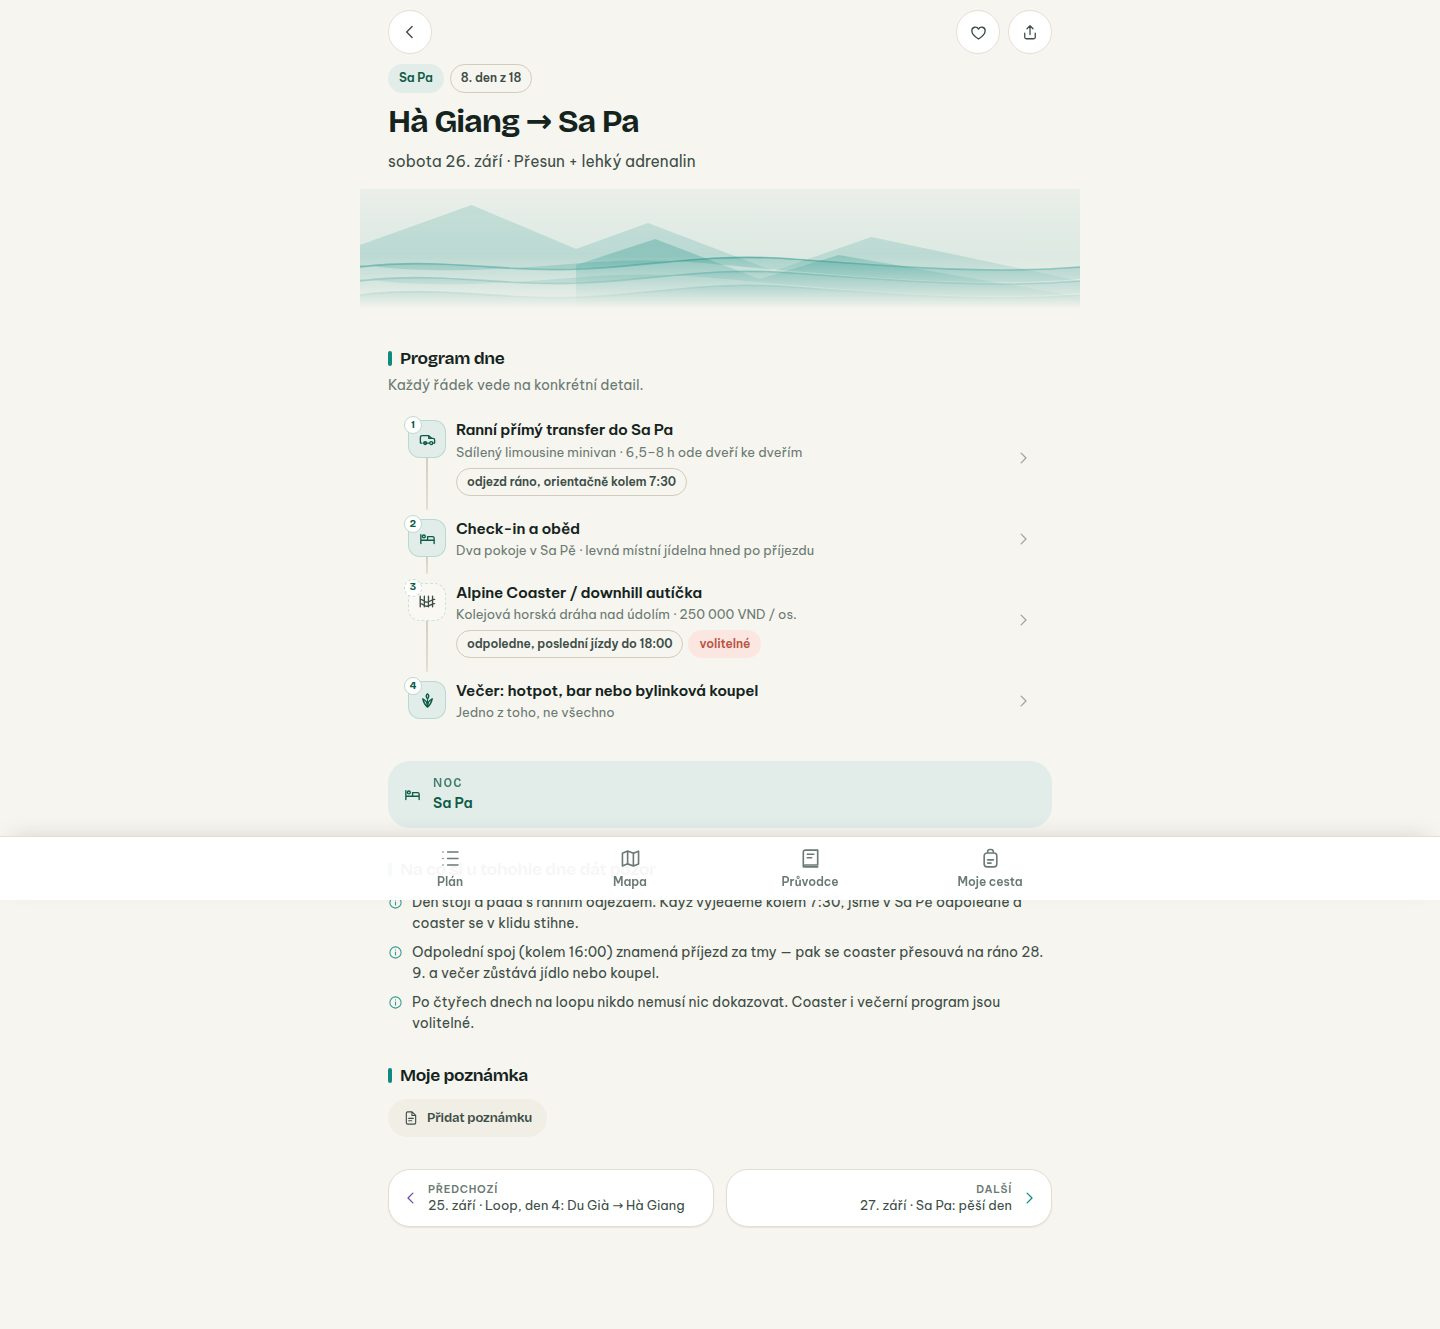
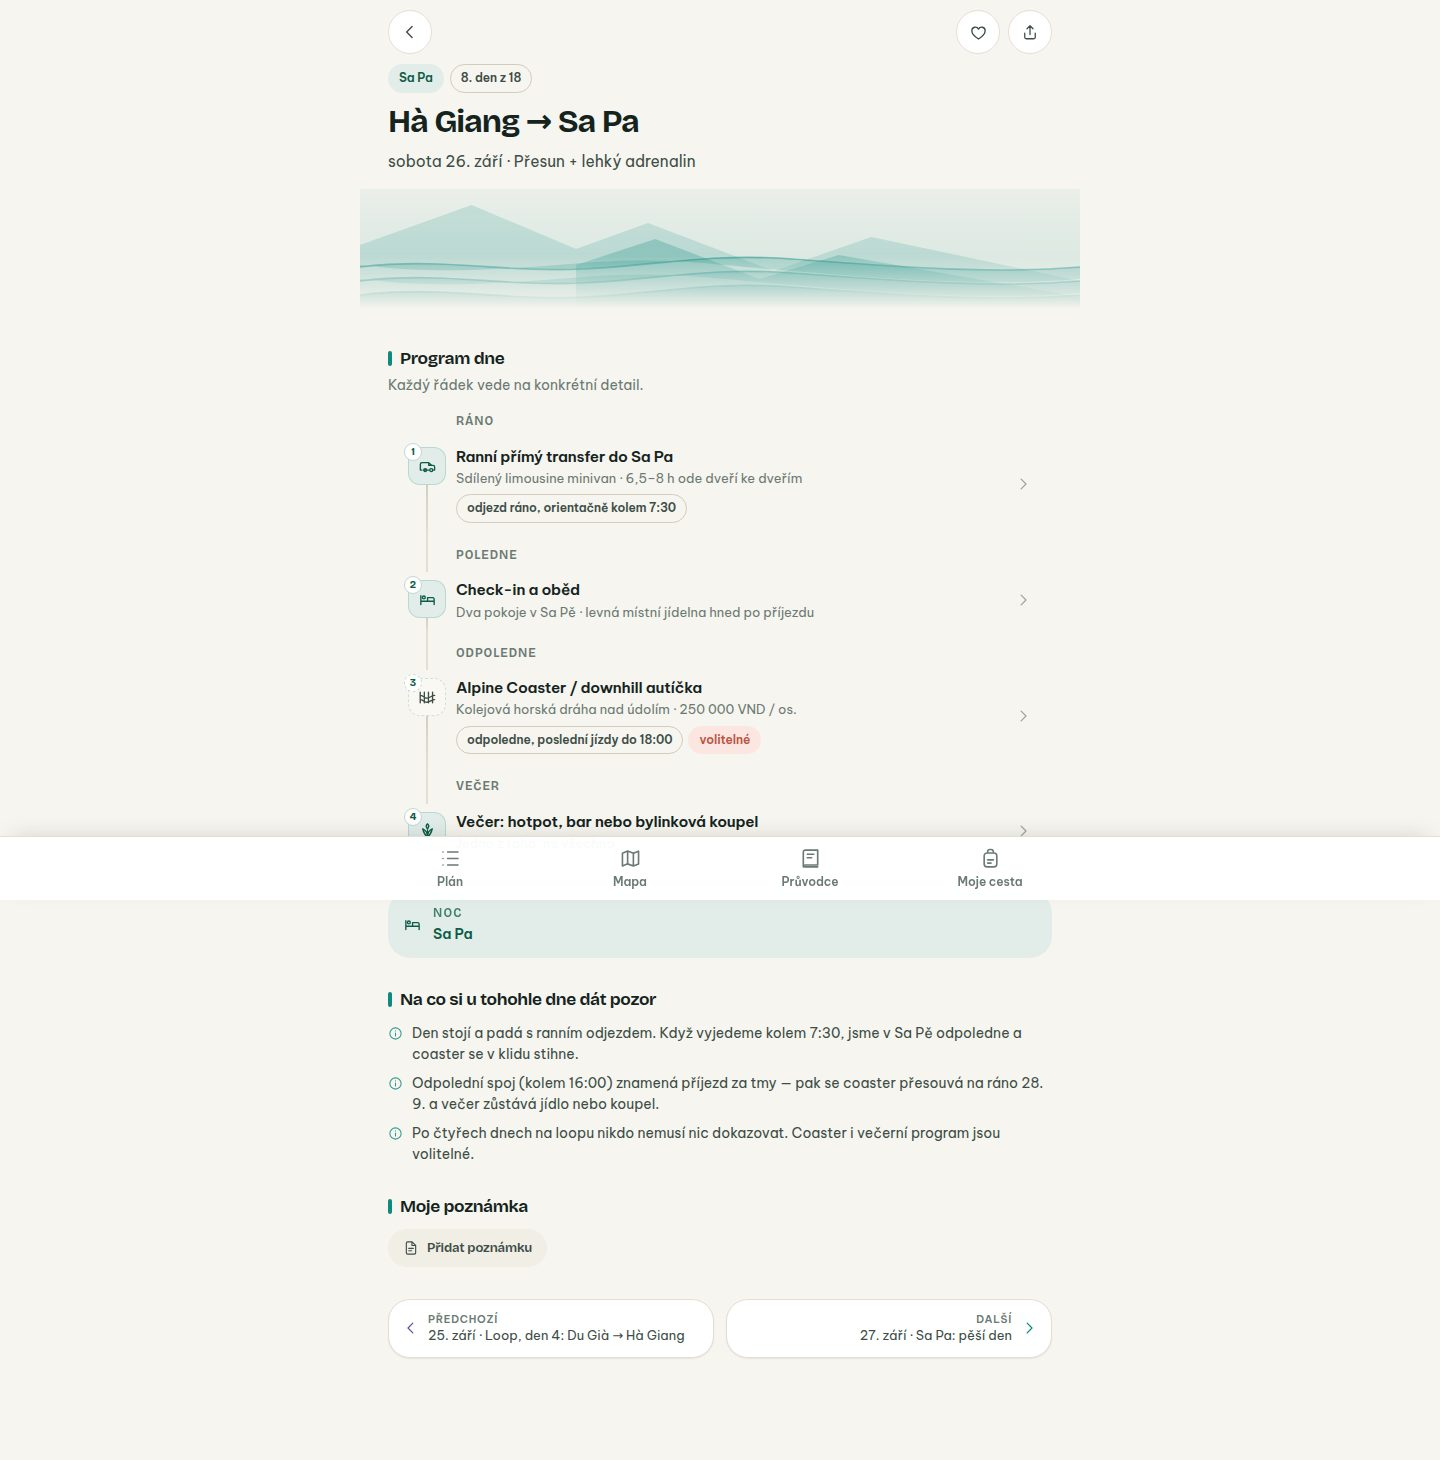
feat: části dne v itineráři a žádost o trvalé úložiště
- kroky dne jsou rozdělené předěly Brzy ráno / Ráno / Poledne / Odpoledne / Večer / Noc
  Zadání chce orientační pořadí bez předstíraných přesných časů — předěl se ukáže
  jen tam, kde se část dne opravdu mění.
- Moje cesta → Offline: žádost o trvalé úložiště, s jasným vysvětlením, co NEznamená
  (nechrání proti smazání dat stránky ani proti plnému telefonu — proto je tu i export)

Claude-Session: https://claude.ai/code/session_01Cymdo9tzj1p7XfpkcYGvAf

Changed region(s): [[0.25, 0.0309, 0.75, 0.8638], [0.2812, 0.8947, 0.5, 0.9255], [0.5938, 0.8947, 0.7188, 0.9255]]

diff --git a/src/pages/TripPage.tsx b/src/pages/TripPage.tsx
@@ -6,7 +6,7 @@ import { formatDayLong, formatDayShort, getPlace, getService, getItem, getLeg, g
 import { useUserState } from '@/state/UserStateContext'
 import { useServiceWorker } from '@/state/useServiceWorker'
 import { buildExport, clearOwnData, importState, type BookingUserStatus, type ImportReport } from '@/lib/storage'
-import { clearOfflinePackage, formatBytes, isServerReachable, prepareOffline, readStatus, type OfflineStatus, type PrepareProgress } from '@/lib/offline'
+import { clearOfflinePackage, formatBytes, isServerReachable, isStoragePersisted, prepareOffline, readStatus, requestPersistentStorage, type OfflineStatus, type PrepareProgress } from '@/lib/offline'
 import { Icon } from '@/components/Icon'
 import { BulletList, Callout, EmptyState, Section } from '@/components/ui'
 
@@ -411,12 +411,26 @@ function Offline() {
   const [progress, setProgress] = useState<PrepareProgress | null>(null)
   const [result, setResult] = useState<{ ok: boolean; error?: string } | null>(null)
   const [reachable, setReachable] = useState<boolean | null>(null)
+  const [persisted, setPersisted] = useState<boolean | null>(null)
+  const [persistMsg, setPersistMsg] = useState<string | null>(null)
 
   const refresh = useCallback(async () => {
     setStatus(await readStatus(trip.contentVersion))
+    setPersisted(await isStoragePersisted())
   }, [])
 
   useEffect(() => { void refresh() }, [refresh])
+
+  const askPersist = async () => {
+    const res = await requestPersistentStorage()
+    setPersisted(res.granted)
+    setPersistMsg(
+      res.error
+        ?? (res.granted
+          ? 'Prohlížeč slíbil, že data sám neuvolní. Export dat to ale nenahrazuje.'
+          : 'Prohlížeč žádost zamítl. Stává se to; data zůstanou uložená, jen je prohlížeč může při nedostatku místa uvolnit.'),
+    )
+  }
 
   const run = async () => {
     setResult(null)
@@ -499,6 +513,28 @@ function Offline() {
             ]} />
           </div>
         </div>
+      </Section>
+
+      <Section title="Ochrana uložených dat" hint="Prohlížeč může data uvolnit, když dojde místo. Tímhle ho požádáš, aby to nedělal.">
+        <div className="offstatus__badge">
+          <Icon name={persisted ? 'shield' : 'info'} size={20} />
+          <span>
+            {persisted === null ? 'Prohlížeč tuhle funkci nepodporuje'
+              : persisted ? 'Trvalé úložiště je zapnuté'
+                : 'Trvalé úložiště zatím není zapnuté'}
+          </span>
+        </div>
+        {persisted === false ? (
+          <button type="button" className="btn btn--ghost btn--sm" onClick={() => void askPersist()}>
+            <Icon name="shield" size={16} />Požádat o trvalé úložiště
+          </button>
+        ) : null}
+        {persistMsg ? <Callout tone="info">{persistMsg}</Callout> : null}
+        <Callout tone="warn" title="Co to NEznamená">
+          Trvalé úložiště chrání jen proti tomu, aby prohlížeč data uvolnil sám při nedostatku místa.
+          Nechrání proti smazání dat stránky, přeinstalaci prohlížeče ani proti plnému telefonu.
+          Proto je tu i export dat — a ten je spolehlivější.
+        </Callout>
       </Section>
 
       <Section title="Kontrola před cestou">

diff --git a/src/lib/offline.ts b/src/lib/offline.ts
@@ -222,6 +222,37 @@ export async function isServerReachable(timeoutMs = 4000): Promise<boolean> {
 const nf1 = new Intl.NumberFormat('cs-CZ', { maximumFractionDigits: 1 })
 const nf0 = new Intl.NumberFormat('cs-CZ', { maximumFractionDigits: 0 })
 
+/**
+ * Požádá prohlížeč o trvalé úložiště.
+ *
+ * POZOR NA SLIBY: „persistent storage" znamená jen to, že prohlížeč data
+ * nesmaže sám při nedostatku místa. NEchrání proti tomu, když si uživatel
+ * smaže data stránky, přeinstaluje prohlížeč nebo mu dojde místo v telefonu.
+ * Proto k tomu v UI patří i export dat, ne místo něj.
+ */
+export async function requestPersistentStorage(): Promise<{ granted: boolean; supported: boolean; error?: string }> {
+  if (!navigator.storage?.persist) {
+    return { granted: false, supported: false, error: 'Tenhle prohlížeč trvalé úložiště nepodporuje. Aplikace bude fungovat, ale prohlížeč může data uvolnit při nedostatku místa.' }
+  }
+  try {
+    const already = await navigator.storage.persisted()
+    if (already) return { granted: true, supported: true }
+    const granted = await navigator.storage.persist()
+    return { granted, supported: true }
+  } catch (err) {
+    return { granted: false, supported: true, error: `Žádost selhala: ${String(err)}` }
+  }
+}
+
+export async function isStoragePersisted(): Promise<boolean | null> {
+  if (!navigator.storage?.persisted) return null
+  try {
+    return await navigator.storage.persisted()
+  } catch {
+    return null
+  }
+}
+
 export function formatBytes(bytes: number | null): string {
   if (bytes === null) return 'neznámo'
   if (bytes < 1024) return `${nf0.format(bytes)} B`

diff --git a/src/components/StepList.tsx b/src/components/StepList.tsx
@@ -1,0 +1,32 @@
+import { Fragment } from 'react'
+import type { ItineraryItem } from '@/model/types'
+import { DAY_PART_LABEL, ItemRow } from './ItemRow'
+
+/**
+ * Seznam kroků dne s jemnými předěly podle části dne.
+ * Předěl se ukáže jen tam, kde se část dne mění — u dne, kde je všechno
+ * „odpoledne", by osm stejných nadpisů jen překáželo.
+ */
+export function StepList({ items, roomy = false }: { items: ItineraryItem[]; roomy?: boolean }) {
+  let lastPart: ItineraryItem['dayPart'] | null = null
+  const showParts = new Set(items.map((i) => i.dayPart)).size > 1
+
+  return (
+    <ol className={`steps${roomy ? ' steps--roomy' : ''}`}>
+      {items.map((item, i) => {
+        const newPart = showParts && item.dayPart !== lastPart
+        lastPart = item.dayPart
+        return (
+          <Fragment key={item.id}>
+            {newPart ? (
+              <li className="steps__part" aria-hidden="true">
+                <span>{DAY_PART_LABEL[item.dayPart]}</span>
+              </li>
+            ) : null}
+            <ItemRow item={item} index={i + 1} />
+          </Fragment>
+        )
+      })}
+    </ol>
+  )
+}

diff --git a/src/pages/DayPage.tsx b/src/pages/DayPage.tsx
@@ -2,7 +2,7 @@ import { Link, useParams } from 'react-router-dom'
 import { days } from '@/data'
 import { formatDayLong, getDay, getRegion } from '@/model/registry'
 import { Icon } from '@/components/Icon'
-import { ItemRow } from '@/components/ItemRow'
+import { StepList } from '@/components/StepList'
 import { RegionArt } from '@/components/RegionArt'
 import { BulletList, DetailHeader, EmptyState, FavouriteButton, NoteBox, Section, ShareButton } from '@/components/ui'
 import { tripPosition } from '@/lib/time'
@@ -47,9 +47,7 @@ export function DayPage() {
       </DetailHeader>
 
       <Section title="Program dne" hint="Každý řádek vede na konkrétní detail.">
-        <ol className="steps steps--roomy">
-          {day.items.map((item, i) => <ItemRow key={item.id} item={item} index={i + 1} />)}
-        </ol>
+        <StepList items={day.items} roomy />
       </Section>
 
       <div className="nightbar">

diff --git a/src/pages/PlanPage.tsx b/src/pages/PlanPage.tsx
@@ -5,7 +5,7 @@ import { trip } from '@/data/trip'
 import { formatDayLong, formatDayShort, getRegion, weekdayShort } from '@/model/registry'
 import { tripPosition } from '@/lib/time'
 import { Icon } from '@/components/Icon'
-import { ItemRow } from '@/components/ItemRow'
+import { StepList } from '@/components/StepList'
 import { RegionArt } from '@/components/RegionArt'
 import type { Day, RegionId } from '@/model/types'
 
@@ -194,9 +194,7 @@ function FocusDay({ day, isToday }: { day: Day; isToday: boolean }) {
         </span>
       </div>
 
-      <ol className="steps">
-        {day.items.map((item, i) => <ItemRow key={item.id} item={item} index={i + 1} />)}
-      </ol>
+      <StepList items={day.items} />
 
       <div className="daycard__actions">
         <Link to={`/day/${day.date}`} className="btn btn--accent btn--sm btn--block">

diff --git a/src/styles/components.css b/src/styles/components.css
@@ -916,3 +916,20 @@
 
 .overview__head-desktop { display: none; }
 .overview__head-desktop h2 { font-size: 1.05rem; letter-spacing: -.022em; }
+
+/* --- předěl části dne v seznamu kroků ------------------------------ */
+.steps__part {
+  display: flex; align-items: center; gap: 10px;
+  padding: 12px 0 4px; list-style: none;
+}
+.steps__part:first-child { padding-top: 4px; }
+.steps__part span {
+  font-family: var(--font-display); font-size: var(--t-2xs); font-weight: 650;
+  letter-spacing: .08em; text-transform: uppercase; color: var(--ink-3);
+  padding-left: 48px; position: relative;
+}
+.steps__part span::before {
+  content: ''; position: absolute; left: 18px; top: -14px; bottom: -8px;
+  width: 2px; background: var(--line);
+}
+.steps > .steps__part:first-child span::before { display: none; }

diff --git a/src/components/ItemRow.tsx b/src/components/ItemRow.tsx
@@ -30,6 +30,20 @@ function iconFor(item: ItineraryItem): IconName {
   return KIND_ICON[item.kind]
 }
 
+/**
+ * Části dne. Zadání říká: pro orientační program stačí ráno / dopoledne /
+ * odpoledne / večer; přesné časy jen tam, kde mají oporu.
+ */
+export const DAY_PART_LABEL: Record<ItineraryItem['dayPart'], string> = {
+  early: 'Brzy ráno',
+  morning: 'Ráno',
+  midday: 'Poledne',
+  afternoon: 'Odpoledne',
+  evening: 'Večer',
+  night: 'Noc',
+  flexible: 'Kdykoli',
+}
+
 const STATUS_LABEL: Record<ItineraryItem['status'], string | null> = {
   main: null,
   optional: 'volitelné',
